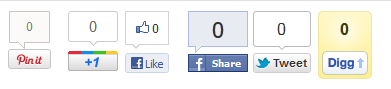
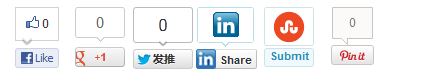
git-svn-id: https://plugins.svn.wordpress.org/facebooktwittergoogle-plus-one-share-buttons/trunk@599173 b8457f37-d9ea-0310-8a92-e5e31aec5664

diff --git a/Facebook_Twitter_Google_plus-one_Share_Buttons.php b/Facebook_Twitter_Google_plus-one_Share_Buttons.php
@@ -2,8 +2,8 @@
 /*
 Plugin Name: Facebook,Twitter,Google plus one Share Buttons
 Plugin URI: http://www.92app.com/wordpress-plugins/facebook-twitter-google-plus-one-share-buttons
-Description: Facebook Like & Share,Twitter,Google +,Pinterest,Digg Buttons after post contents.
-Version: 1.3.0
+Description: Facebook Like,Twitter,Google +,Pinterest,Linkedin,StumbleuponButtons after post contents.
+Version: 1.3.1
 Author: Jeriff Cheng
 Author URI: http://www.92app.com/
 */
@@ -25,14 +25,14 @@ Author URI: http://www.92app.com/
 
 		/*
 		Contents:
-		1.Head js: Pinterest,Google + ,Digg
-		2.Footer js: Twitter,Facebook Share
+		1.Head js: Pinterest,Google + 
+		2.Footer js: Twitter,Linkedin
 		3.Get the Image for Pinterest
 		4.Display the Social Share Buttons
 		*/
 
 ################################################################
-##### 1. Head js: Pinterest,Google +, Digg#####################
+##### 1. Head js: Pinterest,Google +#####################
 ################################################################
 function FTGSB_head() {
 if (is_single()) { ?> 
@@ -65,26 +65,17 @@ po.src = 'https://apis.google.com/js/plusone.js';
 var s = document.getElementsByTagName('script')[0]; s.parentNode.insertBefore(po, s);
 })();
 </script>
-<script type="text/javascript">
-(function() {
-var s = document.createElement('SCRIPT'), s1 = document.getElementsByTagName('SCRIPT')[0];
-s.type = 'text/javascript';
-s.async = true;
-s.src = 'http://widgets.digg.com/buttons.js';
-s1.parentNode.insertBefore(s, s1);
-})();
-</script>
 <?php }
  }
 add_action('wp_head', 'FTGSB_head',20);
 
 ################################################################
-############2.Footer js: Twitter,Facebook Share#################
+############2.Footer js: Twitter,linkedin Share#################
 ################################################################
 function FTGSB_footer() {
 	if (is_single()) { ?> 
 		<script type="text/javascript" src="http://platform.twitter.com/widgets.js"></script>
-		<script type="text/javascript" src="<?php echo get_option('siteurl') . '/' . PLUGINDIR . '/' . dirname(plugin_basename (__FILE__))?>/FB.Share" ></script>
+		<script src="http://platform.linkedin.com/in.js" type="text/javascript"></script>
 	<?php }
  }
 add_action('wp_footer', 'FTGSB_footer');
@@ -121,16 +112,16 @@ function FTGSB($content) {
 if(is_single()) {
 global $post, $posts;
 $content.= '
-<style>#socialbuttonnav li{list-style:none;overflow:hidden;margin:0 auto;background:none;overflow:hidden;width:62px; height:80px; line-height:10px; margin-right:1px; float:left; text-align:center;}</style>
+<style>#socialbuttonnav li{list-style:none;overflow:hidden;margin:0 auto;background:none;overflow:hidden;width:62px; height:70px; line-height:10px; margin-right:1px; float:left; text-align:center;}</style>
 <ul id="socialbuttonnav">
+<li><!-- Facebook like--><iframe src="//www.facebook.com/plugins/like.php?href='.urlencode(get_permalink($post->ID)).
+'&amp;send=false&amp;layout=box_count&amp;width=44&amp;show_faces=false&amp;action=like&amp;colorscheme=light&amp;font&amp;height=90&amp;appId=220231561331594" scrolling="no" frameborder="0" style="border:none; overflow:hidden; width:44px; height:90px;" allowTransparency="true"></iframe></li>
+<li><!-- Google plus one--><g:plusone size="tall" count="true"></g:plusone></li>
+<li><!-- Twitter--><a name="twitter_share" data-count="vertical" href="http://twitter.com/share" class="twitter-share-button" >Tweet</a></li>
+<li><!-- linkedin--><div><script type="in/share" data-counter="top"></script></div></li>
+<li><!-- stumbleupon--><div><script src="http://www.stumbleupon.com/hostedbadge.php?s=5"></script></div></li>
 <li><!-- Pinterest like--> <a href="http://pinterest.com/pin/create/button/?url='.urlencode(get_permalink($post->ID)).
 '&media='.pinterest_image().'" class="pin-it-button" count-layout="vertical">Pin It</a></li>
-<li><!-- Google plus one--><g:plusone size="tall" count="true"></g:plusone></li>
-<li><!-- Facebook like--><iframe src="//www.facebook.com/plugins/like.php?href='.urlencode(get_permalink($post->ID)).
-'&amp;send=false&amp;layout=box_count&amp;width=65&amp;show_faces=false&amp;action=like&amp;colorscheme=light&amp;font&amp;height=90&amp;appId=220231561331594" scrolling="no" frameborder="0" style="border:none; overflow:hidden; width:65px; height:90px;" allowTransparency="true"></iframe></li>
-<li><!-- Facebook share--><a name="fb_share" type="box_count" href="http://www.facebook.com/sharer.php">Share</a></li>
-<li><!-- Twitter--><a name="twitter_share" data-count="vertical" href="http://twitter.com/share" class="twitter-share-button" >Tweet</a></li>
-<li><!-- Digg--><a class="DiggThisButton DiggMedium" href='.urlencode(get_permalink($post->ID)).'&amp;title='.urlencode(get_the_title()).'></a></li>
 </ul>';
 }
 return $content;
